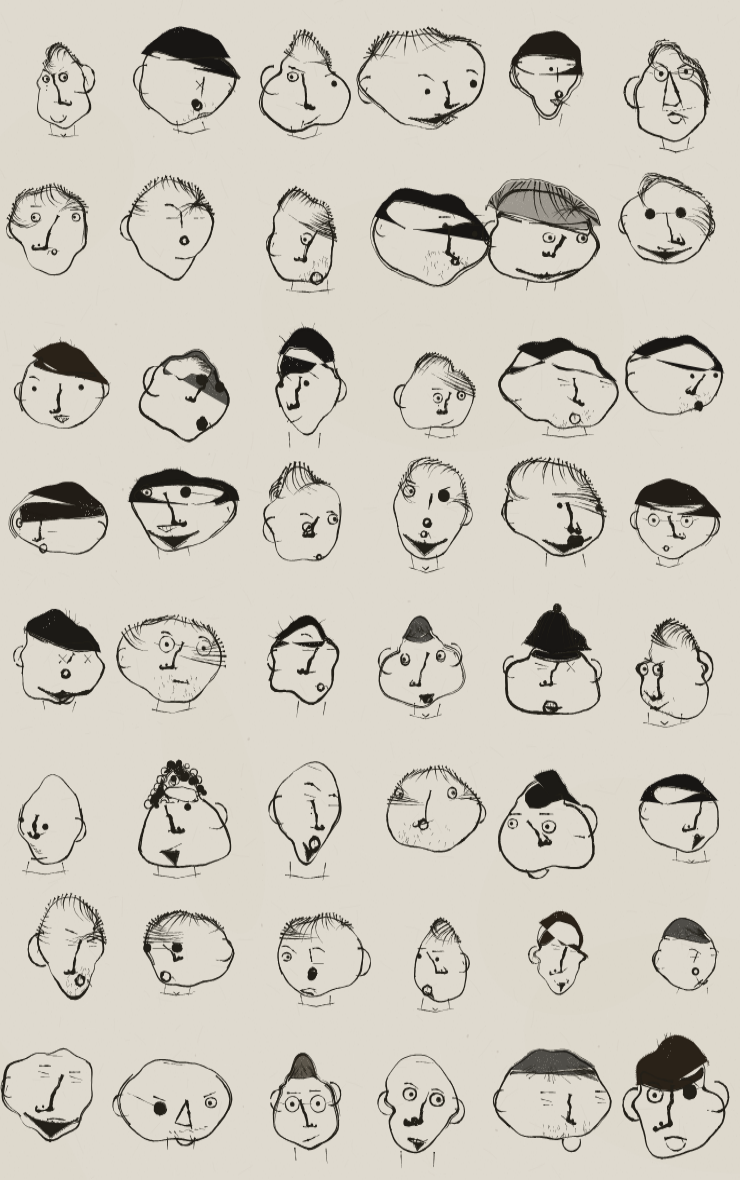
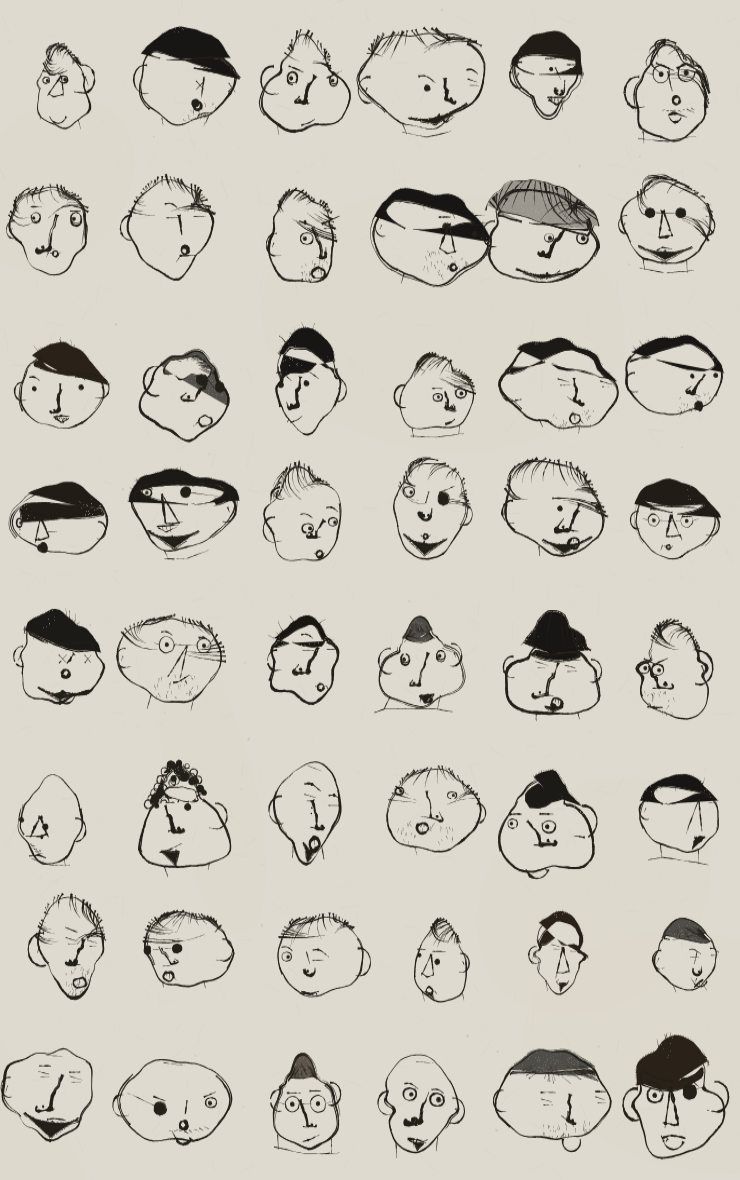
Gauntlet: necks that grow out of the jaw, clumped hair, four kinds of nose
- The neck was two parallel ticks of constant length under every chin,
  often floating clear of the jaw. Both sides now start on the outline
  itself, at varying angle, length and lean, ending in a collar, a bow, a
  pair of shoulders, or nothing.
- Hair strokes clump instead of marching at even intervals along the arc.
- Noses come as long, hook, wedge, button and blob in roughly equal
  measure, including one with no bridge at all.
- Names step down under the feet when there is no room in the margin,
  rather than clipping the shoulder.

Claude-Session: https://claude.ai/code/session_01RJWY9ufwnD6fjwW6ve4one

diff --git a/dude.js b/dude.js
@@ -868,26 +868,47 @@
   // plates has one; a head floating alone on the paper does not read.
   function drawNeck(c, rng, skull) {
     const s = skull.s;
-    const chin = skull.limit(skull.project({ x: 0, y: 0.95, z: 0.35 }), 0);
-    const drop = s * rng.f(0.14, 0.3);
-    const halfW = s * rng.f(0.3, 0.46);
-    const l = { x: chin.x - halfW, y: chin.y - s * 0.04 };
-    const r = { x: chin.x + halfW * rng.f(0.85, 1.15), y: chin.y - s * 0.02 };
-    const lb = { x: l.x + rng.f(-3, 3), y: chin.y + drop };
-    const rb = { x: r.x + rng.f(-3, 3), y: chin.y + drop * rng.f(0.9, 1.1) };
-    inkPoly(c, rng, [l, lb], { w: s * 0.02, dry: 0.5 });
-    inkPoly(c, rng, [r, rb], { w: s * 0.02, dry: 0.5 });
-    if (rng.chance(0.6)) {
-      // the collar, or a bow tie, or a scribble that stands for one
+    const drop = s * rng.f(0.12, 0.34);
+    const lean = rng.f(-0.28, 0.28);
+    // both sides start ON the jaw, found by walking the outline, so the neck
+    // is never a pair of ticks floating clear of the chin
+    const onJaw = (ang) => {
+      const r = skull.radAt(ang);
+      return { x: skull.cx + Math.cos(ang) * r, y: skull.cy + Math.sin(ang) * r };
+    };
+    const aL = Math.PI / 2 + rng.f(0.34, 0.7);
+    const aR = Math.PI / 2 - rng.f(0.34, 0.7);
+    const l = onJaw(aL);
+    const r = onJaw(aR);
+    const lb = { x: l.x + drop * lean + rng.f(-3, 3), y: l.y + drop };
+    const rb = { x: r.x + drop * lean + rng.f(-3, 3), y: r.y + drop * rng.f(0.82, 1.18) };
+    inkPoly(c, rng, [l, lb], { w: s * rng.f(0.016, 0.026), dry: 0.5, wobble: s * 0.02 });
+    if (rng.chance(0.88)) {
+      inkPoly(c, rng, [r, rb], { w: s * rng.f(0.016, 0.026), dry: 0.5, wobble: s * 0.02 });
+    }
+    if (rng.chance(0.5)) {
       const mid = { x: (lb.x + rb.x) / 2, y: (lb.y + rb.y) / 2 };
-      inkPoly(c, rng, [{ x: lb.x - s * 0.12, y: lb.y - s * 0.02 }, { x: mid.x, y: mid.y + s * rng.f(0.04, 0.1) }, { x: rb.x + s * 0.12, y: rb.y - s * 0.02 }], { w: s * 0.019, dry: 0.6, wobble: s * 0.03 });
-      if (rng.chance(0.45)) {
+      const kind = rng.pick(["collar", "collar", "bow", "shoulders"]);
+      if (kind === "shoulders") {
         inkPoly(c, rng, [
-          { x: mid.x - s * 0.09, y: mid.y - s * 0.03 },
+          { x: lb.x - s * rng.f(0.2, 0.45), y: lb.y + s * rng.f(0.04, 0.12) },
+          { x: lb.x, y: lb.y },
+          { x: rb.x, y: rb.y },
+          { x: rb.x + s * rng.f(0.2, 0.45), y: rb.y + s * rng.f(0.04, 0.12) },
+        ], { w: s * 0.018, dry: 0.6, wobble: s * 0.03 });
+      } else if (kind === "bow") {
+        inkPoly(c, rng, [
+          { x: mid.x - s * rng.f(0.06, 0.12), y: mid.y - s * 0.03 },
           { x: mid.x, y: mid.y + s * 0.04 },
-          { x: mid.x + s * 0.09, y: mid.y - s * 0.03 },
+          { x: mid.x + s * rng.f(0.06, 0.12), y: mid.y - s * 0.03 },
           { x: mid.x, y: mid.y + s * 0.04 },
         ], { w: s * 0.017, dry: 0.7 });
+      } else {
+        inkPoly(c, rng, [
+          { x: lb.x - s * rng.f(0.06, 0.16), y: lb.y - s * 0.02 },
+          { x: mid.x, y: mid.y + s * rng.f(0.03, 0.1) },
+          { x: rb.x + s * rng.f(0.06, 0.16), y: rb.y - s * 0.02 },
+        ], { w: s * 0.019, dry: 0.6, wobble: s * 0.03 });
       }
     }
   }
@@ -1074,7 +1095,9 @@
     const part = rng.f(0.2, 0.8);
     const sweep = rng.f(-0.35, 0.35);
     for (let i = 0; i < lines; i++) {
-      const t = i / (lines - 1 || 1);
+      // clump: strokes gather and leave gaps instead of marching evenly
+      const base = i / (lines - 1 || 1);
+      const t = Math.max(0, Math.min(1, base + (fbm2(base * 6.4 + rng.seed * 0.01, 2.7, rng.seed + 5) - 0.5) * 0.18 + rng.f(-0.02, 0.02)));
       const f = front[Math.min(front.length - 1, Math.round(t * (front.length - 1)))];
       const g = top[Math.min(top.length - 1, Math.round((1 - t) * (top.length - 1)))];
       if (!f || !g) continue;
@@ -1510,6 +1533,16 @@
         inkPoly(c, rng, [wL, A(drop * 1.02, rng.f(-3, 3)), wR], { w: w * rng.f(0.6, 0.9), dry: 0.5 });
       }
       if (rng.chance(0.4)) inkCirc(c, rng, wR.x, wR.y, s * 0.02, w * 0.45, true);
+      return;
+    }
+
+    if (style === "blob") {
+      // no bridge at all: a lump and two nostrils
+      const t = A(drop * rng.f(0.7, 0.95), rng.f(-3, 3));
+      inkArc(c, rng, t.x, t.y, s * rng.f(0.09, 0.15), Math.PI + rng.f(0.1, 0.5), rng.f(-0.5, -0.1), w * 0.9);
+      inkCirc(c, rng, t.x - s * 0.06 * lean, t.y + s * 0.03, s * rng.f(0.018, 0.03), w * 0.5, true);
+      if (rng.chance(0.7)) inkCirc(c, rng, t.x + s * 0.07 * lean, t.y + s * 0.02, s * rng.f(0.015, 0.026), w * 0.45, true);
+      if (rng.chance(0.5)) inkPoly(c, rng, [A(0, rng.f(-3, 3)), A(drop * 0.45, rng.f(-4, 4))], { w: w * 0.5, dry: 0.9 });
       return;
     }
 
@@ -2361,7 +2394,7 @@
       "recede", "recede", "bald", "bald",
     ];
     const eyeStyles = ["open", "open", "open", "open", "dot", "dot", "slit", "angry", "x", "glasses", "glasses", "shades", "patch", "wink"];
-    const noseStyles = ["long", "long", "long", "long", "long", "hook", "hook", "hook", "hook", "tri", "button", "button"];
+    const noseStyles = ["long", "long", "long", "hook", "hook", "hook", "tri", "tri", "tri", "button", "button", "blob"];
     const mouthStyles = ["smile", "smile", "frown", "open", "open", "teeth", "smirk", "lips", "pucker", "line", "line"];
     const beardStyles = ["none", "none", "none", "stache", "goatee", "beard", "stubble"];
     const clothesKinds = ["tee", "hoodie", "jacket", "sweater"];
@@ -2458,13 +2491,18 @@
       nameX = cx + s * rng.f(-1.4, 0.5);
       nameY = Math.min(h - size * 1.5, body.footY + s * rng.f(0.3, 0.75));
     } else if (spot === "shoulder") {
-      nameX = cx + s * rng.f(1.2, 1.6);
+      nameX = cx + s * rng.f(1.5, 1.85);
       nameY = cy + s * rng.f(1.6, 2.4);
     } else {
-      nameX = cx + s * rng.f(1.15, 1.45);
-      nameY = cy + s * rng.f(0.05, 0.6);
+      nameX = cx + s * rng.f(1.2, 1.5);
+      nameY = cy + s * rng.f(0.0, 0.55);
     }
     const nameW = size * (String(dude.name).length * 0.92 + 0.6);
+    if (spot !== "feet" && nameX + nameW > w - 12) {
+      // no room in the margin, so it goes under the feet
+      nameX = Math.max(16, cx + s * rng.f(-1.4, 0.3));
+      nameY = Math.min(h - size * 1.5, body.footY + s * rng.f(0.3, 0.75));
+    }
     nameX = Math.max(16, Math.min(w - nameW - 12, nameX));
     nameY = Math.max(size * 1.2, Math.min(h - size * 1.6, nameY));
     drawName(c, rng, dude.name, nameX, nameY, size);
@@ -2508,7 +2546,7 @@
         drawNose(c, rng, skull, d.nose, d.noseHeavy);
         drawMouth(c, rng, skull, d.mouth);
         drawFacialHair(c, rng, skull, d.beard);
-        if (rng.chance(0.62)) drawNeck(c, rng, skull);
+        if (rng.chance(0.5)) drawNeck(c, rng, skull);
       }
     }
     grainPass(c);

diff --git a/progress.html b/progress.html
@@ -95,6 +95,15 @@
   <h3>“Every face is a white oval with the same hat of ink; the sheet reads as one drawing repeated forty-eight times.”</h3>
   <p>The last and largest note. Hair is no longer a filled black shape with a roughened boundary on every head. A large share of styles now lay 30–55 discrete strokes from a parting, thick where they leave the scalp and tapering to nothing at the tip, sweeping with the growth direction and starting slightly outside the silhouette so they break it irregularly. Roughly a third of heads now carry no black at all, which is what gives the sheet its rhythm of dark and light.</p>
 
+  <h3>“Two parallel ticks of constant length under nearly every chin, frequently floating clear of the jawline.”</h3>
+  <p>The neck now starts <em>on</em> the jaw — both sides found by walking the outline itself — at a varying angle, length and lean, and it ends in a collar, a bow, a pair of shoulders, or nothing.</p>
+
+  <h3>“Hair strokes of near-constant length, evenly spaced along the arc.”</h3>
+  <p>They now clump: the parametric position is pushed around by noise, so strokes gather and leave gaps instead of marching at even intervals.</p>
+
+  <h3>“Retire the hook-nose glyph — build noses as wedges, T-shapes, blobs and hooks in roughly equal measure.”</h3>
+  <p>Done, including a new one with no bridge at all: a lump and two nostrils.</p>
+
   <h3>What the critics have stopped saying</h3>
   <p>The lettering. Asked to look hard at repeated letters inside a single name, the last critic zoomed in and reported: <em>“In OTTO the first O is broad and heavy with a top-left overshoot spur, the second narrower, lighter, pointed at the apex… In GUS MOSS all three S's differ. Genuine per-glyph variation.”</em> They called it the strongest part of the page. That one is won.</p>
 
